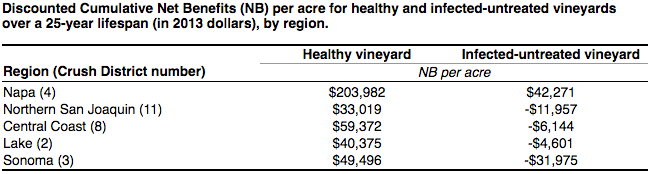
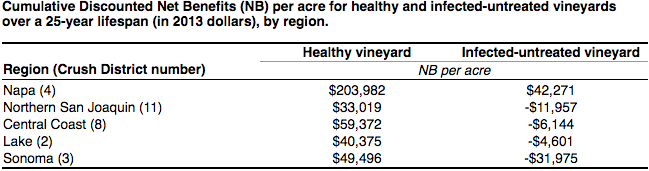
consistency text edits

diff --git a/index.html b/index.html
@@ -32,17 +32,15 @@
 <fieldset class="instructions">
 <h2 id="introduction">Introduction</h2>
 
-<p>Trunk (or wood-canker) diseases are widespread throughout California. These diseases significantly reduce annual yield in mature vineyards, limiting their profitable lifespan. Estimates suggest annual losses in California vineyards from Eutypa dieback, a widespread wood-canker disease, reduce annual gross producer value by as much as 14%. Yield losses accumulate each year, as there are no effective methods to eradicate the wood infections. Diseased vineyards must be replanted on a truncated cycle, and the high start-up costs are not repaid, or preventative practices can be adopted in young vineyards reducing the negative effects of trunk diseases. On this page we provide results from our economic analysis that demonstrate the effectiveness of three field-tested, preventative practices (delayed pruning, double pruning, and application of pruning wound protectant. This page also provides growers an opportunity to enter economic and yield data for their operation to see how trunk diseases and these preventative practices might affect production in their winegrape vineyard.</p>
+<p>Trunk (or wood-canker) diseases are widespread throughout California. These diseases significantly reduce annual yield in mature vineyards, limiting their profitable lifespan. Estimates suggest annual losses in California vineyards from Eutypa dieback, a widespread wood-canker disease, reduce annual gross producer value by as much as 14%. Yield losses accumulate each year, as there are no effective methods to eradicate the wood infections. Diseased vineyards must be replanted on a truncated cycle, and the high start-up costs are not repaid, or preventative practices can be adopted in young vineyards reducing the negative effects of trunk diseases. On this page we provide results from our economic analysis that demonstrate the effectiveness of three field-tested, preventative practices (delayed pruning, double pruning, and application of pruning wound protectant. </p>
 
 <h3 id="instructions">Instructions</h3>
 
-<p>In the following section of this page, you are prompted to select a winegrape growing region, figures of annually and cumulative net returns and yields, and tables containing annually average and cumulatively economic indicators taken from our economic analysis. You will also be prompted to select the preventative practices, disease control efficacy rates, and vineyard age when a preventative practice is first adopted. You will also find links to description of the preventative practices and disease control efficacy rates, and definitions of the variables displayed in the figures and tables. All figure and table displays list the underlying region-specific assumptions used in the economic analysis.</p>
+<p>In the following section of this page, you are prompted to select a winegrape growing region, figures of annual and cumulative net returns and yields, and tables containing annual average and cumulative indicators taken from our economic analysis. You will also be prompted to select the preventative practices, disease control efficacy rates, and vineyard age when a preventative practice is first adopted. You will also find links to description of the preventative practices and disease control efficacy rates, and definitions of the variables displayed in the figures and tables. All figure and table displays list the underlying region-specific assumptions used in the economic analysis.</p>
 
 <p>For inquiries about the page and economic analysis of trunk diseases in California winegrape vineyards, please contact <a href="&#109;&#97;&#105;&#108;&#x74;&#111;&#x3a;&#x6b;&#x61;&#112;&#x6c;&#x61;&#x6e;&#x6a;&#64;&#99;&#115;&#117;&#115;&#46;&#101;&#100;&#x75;">&#107;&#97;&#x70;&#x6c;&#x61;&#x6e;&#106;&#x40;&#x63;&#115;&#117;&#115;&#x2e;&#101;&#x64;&#x75;</a>. </p>
 
-<ul>
-<li><a href="http://treeandvinetrunkdiseases.org">SCRI Trunk Disease Project Page</a></li>
-</ul>
+<p><em>Partial support provided through a grant from the Specialty Crop Research Initiative (SCRI) USDA, National Institute of Food &amp; Agriculture.</em> <a href="http://treeandvinetrunkdiseases.org">Return to the SCRI Trunk Disease Project Page.</a> </p>
 </fieldset>
 
 <form id="theform">
@@ -90,26 +88,26 @@
 		<h4>Select (a) or (b).</h4>
 
 		<section class="efficacyfig-wrap">
-			<h4><label for="efficacyOrYearfig"><input type="radio" name="efficacyOrYearfig" value="efficacy" /> (a) Indicate anticipated efficacy:</label></h4>
+			<h4><label for="efficacyOrYearfig"><input type="radio" name="efficacyOrYearfig" value="efficacy" /> (a) Indicate anticipated disease control efficacy:</label></h4>
 			<ul>
 				<li>
 					<label><input type="checkbox" name="efficacyfig" value="25" />25%</label>
 					<label><input type="checkbox" name="efficacyfig" value="50" />50%</label>
 					<label><input type="checkbox" name="efficacyfig" value="75" />75%</label>
 				</li>
-				<li class="glossary-link"><a href="efficacy-information.html">Disease control efficacy definition and reference estimates</a></li>
+				<li class="glossary-link"><a href="efficacy-information.html">Disease control efficacy rate information</a></li>
 			</ul>
 		</section>
 
 		<section class="yearfig-wrap">
-		<h4><label for="efficacyOrYearfig"><input type="radio" name="efficacyOrYearfig" value="year" /> (b) Indicate first year of treatment:</label></h4>
+		<h4><label for="efficacyOrYearfig"><input type="radio" name="efficacyOrYearfig" value="year" /> (b) Indicate year of practice adoption:</label></h4>
 		<ul>
 			<li>
 				<label><input type="checkbox" name="yearfig" value="Year3" />Year 3</label>
 				<label><input type="checkbox" name="yearfig" value="Year5" />Year 5</label>
 				<label><input type="checkbox" name="yearfig" value="Year10" />Year 10</label>
 			</li>
-			<li class="glossary-link"><a href="#" class="glossary-inline-link">Age of adoption information</a><br /><span class="glossary-inline">We derive results when preventative practices are adopted in years 3, 5, or 10 to evaluate conditions when vines are fully trained onto the trellis system and winter pruning begins (3 years old), when vines reach maturity (5 years old), and when trunk disease symptoms typically appear in vineyards (10 years old). These years were selected following grower interviews and discussions with viticulture farm advisor to reflect key stages in a vineyards lifespan.</span></li>
+			<li class="glossary-link"><a href="#" class="glossary-inline-link">Age of adoption information</a><br /><span class="glossary-inline">We derive results when preventative practices are adopted in years 3, 5, or 10 to evaluate conditions when vines are fully trained onto the trellis system and winter pruning begins (3 years old), when vines reach maturity (5 years old), and when trunk disease symptoms typically appear in vineyards (10 years old). These years were selected following grower interviews and discussions with viticulture farm advisors to reflect key stages in a vineyard&#8217;s lifespan.</span></li>
 		</ul>
 		</section>
 
@@ -132,13 +130,13 @@
 				<li class="glossary-link"><a href="practice-definitions.html">Practice definitions</a></li>
 			</ul>
 
-		<h4>Select anticipated efficacy (select multiple to compare):</h4>
+		<h4>Select anticipated disease control efficacy (select multiple to compare):</h4>
 			<ul>
 				<li>
 					<label><input type="checkbox" name="efficacytable" value="25" checked="checked" />25%</label>
 					<label><input type="checkbox" name="efficacytable" value="50" />50%</label>
 					<label><input type="checkbox" name="efficacytable" value="75" />75%</label>
-				<li class="glossary-link"><a href="efficacy-information.html">Disease control efficacy definition and reference estimates</a></li>
+				<li class="glossary-link"><a href="efficacy-information.html">Disease control efficacy rate information</a></li>
 			</ul>
 
 		<h4>Select year of practice adoption (select multiple to compare):</h4>
@@ -148,13 +146,13 @@
 					<label><input type="checkbox" name="adoptiontable" value="5" />Year 5</label>
 					<label><input type="checkbox" name="adoptiontable" value="10" />Year 10</label>
 				</li>
-				<li class="glossary-link"><a href="#" class="glossary-inline-link">Age of adoption information</a><br /><span class="glossary-inline">We derive results when preventative practices are adopted in years 3, 5, or 10 to evaluate conditions when vines are fully trained onto the trellis system and winter pruning begins (3 years old), when vines reach maturity (5 years old), and when trunk disease symptoms typically appear in vineyards (10 years old). These years were selected following grower interviews and discussions with viticulture farm advisor to reflect key stages in a vineyards lifespan.</span></li>
+				<li class="glossary-link"><a href="#" class="glossary-inline-link">Age of adoption information</a><br /><span class="glossary-inline">We derive results when preventative practices are adopted in years 3, 5, or 10 to evaluate conditions when vines are fully trained onto the trellis system and winter pruning begins (3 years old), when vines reach maturity (5 years old), and when trunk disease symptoms typically appear in vineyards (10 years old). These years were selected following grower interviews and discussions with viticulture farm advisors to reflect key stages in a vineyard&#8217;s lifespan.</span></li>
 			</ul>
 
 		<h4>Choose output parameters:</h4>
 			<ul>
 				<li>
-					<label><input type="checkbox" name="outputtable" value="adcnb" />Additional discounted cumulative net benefits (ADCNB)</label>
+					<label><input type="checkbox" name="outputtable" value="acdnb" />Additional cumulative discounted net benefits (ACDNB)</label>
 					<label><input type="checkbox" name="outputtable" value="lpy" />Last profitable year</label>
 					<label><input type="checkbox" name="outputtable" value="aapo" />Age adoption pays off</label>
 					<label><input type="checkbox" name="outputtable" value="bep" />Breakeven probability</label>
@@ -327,7 +325,7 @@ $(document).ready(function() {
 		------------------------------------ */
 
 			// Declare table data
-			var tableHeaders = ['Region', 'Practice', 'Efficacy', 'Year of adoption', 'ADCNB', 'Last profitable year', 'Age adoption pays off', 'Breakeven probability'];
+			var tableHeaders = ['Region', 'Practice', 'Efficacy', 'Year of adoption', 'ACDNB', 'Last profitable year', 'Age adoption pays off', 'Breakeven probability'];
 			var napaDP25y3 = ['Napa', 'Delayed Pruning', '25.0', '3.0', '$46,720', '18', '3.0', '0.0'];
 			var napaDP25y5 = ['Napa', 'Delayed Pruning', '25.0', '5.0', '$37,880', '17', '5.0', '0.0'];
 			var napaDP25y10 = ['Napa', 'Delayed Pruning', '25.0', '10.0', '$16,159', '16', '10.0', '0.0'];
@@ -546,7 +544,7 @@ $(document).ready(function() {
 				inputs[inputkeys[inputindex]] = false;
 			};
 			var outputkeys = [];
-			outputkeys = ['adcnb', 'lpy', 'aapo', 'bep'];
+			outputkeys = ['acdnb', 'lpy', 'aapo', 'bep'];
 			for (var outputindex in outputkeys) {
 				outputs[outputkeys[outputindex]] = false;
 			};

diff --git a/markdown/compiled/instructions.html b/markdown/compiled/instructions.html
@@ -1,13 +1,11 @@
 <h2 id="introduction">Introduction</h2>
 
-<p>Trunk (or wood-canker) diseases are widespread throughout California. These diseases significantly reduce annual yield in mature vineyards, limiting their profitable lifespan. Estimates suggest annual losses in California vineyards from Eutypa dieback, a widespread wood-canker disease, reduce annual gross producer value by as much as 14%. Yield losses accumulate each year, as there are no effective methods to eradicate the wood infections. Diseased vineyards must be replanted on a truncated cycle, and the high start-up costs are not repaid, or preventative practices can be adopted in young vineyards reducing the negative effects of trunk diseases. On this page we provide results from our economic analysis that demonstrate the effectiveness of three field-tested, preventative practices (delayed pruning, double pruning, and application of pruning wound protectant. This page also provides growers an opportunity to enter economic and yield data for their operation to see how trunk diseases and these preventative practices might affect production in their winegrape vineyard.</p>
+<p>Trunk (or wood-canker) diseases are widespread throughout California. These diseases significantly reduce annual yield in mature vineyards, limiting their profitable lifespan. Estimates suggest annual losses in California vineyards from Eutypa dieback, a widespread wood-canker disease, reduce annual gross producer value by as much as 14%. Yield losses accumulate each year, as there are no effective methods to eradicate the wood infections. Diseased vineyards must be replanted on a truncated cycle, and the high start-up costs are not repaid, or preventative practices can be adopted in young vineyards reducing the negative effects of trunk diseases. On this page we provide results from our economic analysis that demonstrate the effectiveness of three field-tested, preventative practices (delayed pruning, double pruning, and application of pruning wound protectant. </p>
 
 <h3 id="instructions">Instructions</h3>
 
-<p>In the following section of this page, you are prompted to select a winegrape growing region, figures of annually and cumulative net returns and yields, and tables containing annually average and cumulatively economic indicators taken from our economic analysis. You will also be prompted to select the preventative practices, disease control efficacy rates, and vineyard age when a preventative practice is first adopted. You will also find links to description of the preventative practices and disease control efficacy rates, and definitions of the variables displayed in the figures and tables. All figure and table displays list the underlying region-specific assumptions used in the economic analysis.</p>
+<p>In the following section of this page, you are prompted to select a winegrape growing region, figures of annual and cumulative net returns and yields, and tables containing annual average and cumulative indicators taken from our economic analysis. You will also be prompted to select the preventative practices, disease control efficacy rates, and vineyard age when a preventative practice is first adopted. You will also find links to description of the preventative practices and disease control efficacy rates, and definitions of the variables displayed in the figures and tables. All figure and table displays list the underlying region-specific assumptions used in the economic analysis.</p>
 
 <p>For inquiries about the page and economic analysis of trunk diseases in California winegrape vineyards, please contact <a href="&#109;&#97;&#105;&#108;&#x74;&#111;&#x3a;&#x6b;&#x61;&#112;&#x6c;&#x61;&#x6e;&#x6a;&#64;&#99;&#115;&#117;&#115;&#46;&#101;&#100;&#x75;">&#107;&#97;&#x70;&#x6c;&#x61;&#x6e;&#106;&#x40;&#x63;&#115;&#117;&#115;&#x2e;&#101;&#x64;&#x75;</a>. </p>
 
-<ul>
-<li><a href="http://treeandvinetrunkdiseases.org">SCRI Trunk Disease Project Page</a></li>
-</ul>
+<p><em>Partial support provided through a grant from the Specialty Crop Research Initiative (SCRI) USDA, National Institute of Food &amp; Agriculture.</em> <a href="http://treeandvinetrunkdiseases.org">Return to the SCRI Trunk Disease Project Page.</a> </p>

diff --git a/variable-definitions.html b/variable-definitions.html
@@ -37,7 +37,7 @@
 
 <h2 id="tablevariables">Table variables</h2>
 
-<p><strong>Additional discounted cumulative net benefits (ADCNB):</strong> The difference in cumulative net returns (returns - costs) per acre over 25 years between an infected vineyards where action is taken healthy vineyard and an untreated infected vineyard. Current and future dollar amounts are in 2013 dollars and are discounted to 2013 using a 3% discount rate. </p>
+<p><strong>Additional cumulative discounted net benefits (ACDNB):</strong> The difference in cumulative net returns (returns - costs) per acre over 25 years between an infected vineyard where action is taken and an untreated infected vineyard. Current and future dollar amounts are in 2013 dollars and are discounted to 2013 using a 3% discount rate. </p>
 
 <p>As a reference point, here are the discounted cumulative net benefits for a healthy and an untreated infected vineyard. </p>
 
@@ -96,7 +96,7 @@
 
 <p><strong>Last profitable year:</strong> The last year an infected vineyard generates positive annual net returns (returns - costs). This year is the same for discounted and nominal net returns. </p>
 
-<p>As a reference point, here are the last year an untreated infected vineyard generates positive annual net returns. </p>
+<p>As a reference point, here are the last years an untreated infected vineyard generates positive annual net returns. </p>
 
 <table>
 <colgroup>
@@ -140,11 +140,11 @@
 
 <p><a href="images/variable-table02.png" class="swipebox hide-for-phones"><i class="fa fa-search-plus" aria-hidden="true"></i> View fullscreen</a> </p>
 
-<p><strong>Age adoption pays off:</strong> The age when discounted cumulative net returns (returns – costs) for a treated infected vineyard exceed those from an untreated infected vineyard. </p>
+<p><strong>Age adoption pays off:</strong> The age when cumulative discounted net returns (returns – costs) for a treated infected vineyard exceed those from an untreated infected vineyard. </p>
 
-<p><strong>Breakeven probability:</strong> The probability of infection where expected discounted cumulative net returns from treating a vineyard equals the expected discounted cumulative net returns from not treating a vineyard. If you perceive a probability of infection less than this probability, then not treating the vineyard generates greater discounted cumulative net returns than a treated vineyard, and vice versa. </p>
+<p><strong>Breakeven probability:</strong> The probability of infection where expected cumulative discounted net returns from treating a vineyard equals the expected cumulative discounted net returns from not treating a vineyard. If you perceive a probability of infection less than this probability, then not treating the vineyard generates greater cumulative discounted net returns than a treated vineyard, and vice versa. </p>
 
-<p>As a reference point here are the discounted cumulative net returns for a treated healthy vineyard. </p>
+<p>As a reference point here are the cumulative discounted net returns for a treated healthy vineyard. </p>
 
 <table>
 <colgroup>

diff --git a/markdown/compiled/variable-definitions.html b/markdown/compiled/variable-definitions.html
@@ -8,7 +8,7 @@
 
 <h2 id="tablevariables">Table variables</h2>
 
-<p><strong>Additional discounted cumulative net benefits (ADCNB):</strong> The difference in cumulative net returns (returns - costs) per acre over 25 years between an infected vineyards where action is taken healthy vineyard and an untreated infected vineyard. Current and future dollar amounts are in 2013 dollars and are discounted to 2013 using a 3% discount rate. </p>
+<p><strong>Additional cumulative discounted net benefits (ACDNB):</strong> The difference in cumulative net returns (returns - costs) per acre over 25 years between an infected vineyard where action is taken and an untreated infected vineyard. Current and future dollar amounts are in 2013 dollars and are discounted to 2013 using a 3% discount rate. </p>
 
 <p>As a reference point, here are the discounted cumulative net benefits for a healthy and an untreated infected vineyard. </p>
 
@@ -67,7 +67,7 @@
 
 <p><strong>Last profitable year:</strong> The last year an infected vineyard generates positive annual net returns (returns - costs). This year is the same for discounted and nominal net returns. </p>
 
-<p>As a reference point, here are the last year an untreated infected vineyard generates positive annual net returns. </p>
+<p>As a reference point, here are the last years an untreated infected vineyard generates positive annual net returns. </p>
 
 <table>
 <colgroup>
@@ -111,11 +111,11 @@
 
 <p><a href="images/variable-table02.png" class="swipebox hide-for-phones"><i class="fa fa-search-plus" aria-hidden="true"></i> View fullscreen</a> </p>
 
-<p><strong>Age adoption pays off:</strong> The age when discounted cumulative net returns (returns – costs) for a treated infected vineyard exceed those from an untreated infected vineyard. </p>
+<p><strong>Age adoption pays off:</strong> The age when cumulative discounted net returns (returns – costs) for a treated infected vineyard exceed those from an untreated infected vineyard. </p>
 
-<p><strong>Breakeven probability:</strong> The probability of infection where expected discounted cumulative net returns from treating a vineyard equals the expected discounted cumulative net returns from not treating a vineyard. If you perceive a probability of infection less than this probability, then not treating the vineyard generates greater discounted cumulative net returns than a treated vineyard, and vice versa. </p>
+<p><strong>Breakeven probability:</strong> The probability of infection where expected cumulative discounted net returns from treating a vineyard equals the expected cumulative discounted net returns from not treating a vineyard. If you perceive a probability of infection less than this probability, then not treating the vineyard generates greater cumulative discounted net returns than a treated vineyard, and vice versa. </p>
 
-<p>As a reference point here are the discounted cumulative net returns for a treated healthy vineyard. </p>
+<p>As a reference point here are the cumulative discounted net returns for a treated healthy vineyard. </p>
 
 <table>
 <colgroup>

diff --git a/practice-definitions.html b/practice-definitions.html
@@ -28,9 +28,9 @@
 
 <p><strong>Delayed pruning:</strong> Prune late in the dormant season (February or later, before budbreak) by hand, when both pathogen inoculum and wound susceptibility are lower, hence minimizing the risk of infection compared to December and January. </p>
 
-<p><strong>Hand-painted TopsinM:</strong> Prune early in the dormant season (December or January) with a mechanical-pruning machine; partially prune canes to a length of approx. 0.4 m. Prune again late in the dormant season (February or later) by hand to two-bud spurs, to remove potentially infected canes. </p>
+<p><strong>Hand-painted TopsinM:</strong> Topsin is a fungicide that provides a protective barrier on pruning wounds against infection by the spores of trunk pathogens. After pruning and before rain, the latter of which induces spore production, liberation and dispersal, apply Topsin by hand with a paintbrush or sponge to cover pruning wounds.<sup>1</sup> </p>
 
-<p><strong>Double pruning:</strong> Topsin is a fungicide that provides a protective barrier on pruning wounds against infection by the spores of trunk pathogens. After pruning and before rain, the latter of which induces spore production, liberation and dispersal, apply Topsin by hand with a paintbrush or sponge to cover pruning wounds.<sup>1</sup></p>
+<p><strong>Double pruning:</strong> Prune early in the dormant season (December or January) with a mechanical-pruning machine; partially prune canes to a length of approx. 0.4 m. Prune again late in the dormant season (February or later) by hand to two-bud spurs, to remove potentially infected canes. </p>
 
 <hr />
 

diff --git a/markdown/compiled/practice-definitions.html b/markdown/compiled/practice-definitions.html
@@ -2,9 +2,9 @@
 
 <p><strong>Delayed pruning:</strong> Prune late in the dormant season (February or later, before budbreak) by hand, when both pathogen inoculum and wound susceptibility are lower, hence minimizing the risk of infection compared to December and January. </p>
 
-<p><strong>Hand-painted TopsinM:</strong> Prune early in the dormant season (December or January) with a mechanical-pruning machine; partially prune canes to a length of approx. 0.4 m. Prune again late in the dormant season (February or later) by hand to two-bud spurs, to remove potentially infected canes. </p>
+<p><strong>Hand-painted TopsinM:</strong> Topsin is a fungicide that provides a protective barrier on pruning wounds against infection by the spores of trunk pathogens. After pruning and before rain, the latter of which induces spore production, liberation and dispersal, apply Topsin by hand with a paintbrush or sponge to cover pruning wounds.<sup>1</sup> </p>
 
-<p><strong>Double pruning:</strong> Topsin is a fungicide that provides a protective barrier on pruning wounds against infection by the spores of trunk pathogens. After pruning and before rain, the latter of which induces spore production, liberation and dispersal, apply Topsin by hand with a paintbrush or sponge to cover pruning wounds.<sup>1</sup></p>
+<p><strong>Double pruning:</strong> Prune early in the dormant season (December or January) with a mechanical-pruning machine; partially prune canes to a length of approx. 0.4 m. Prune again late in the dormant season (February or later) by hand to two-bud spurs, to remove potentially infected canes. </p>
 
 <hr />
 

diff --git a/markdown/instructions.md b/markdown/instructions.md
@@ -1,11 +1,11 @@
 ## Introduction
 
-Trunk (or wood-canker) diseases are widespread throughout California. These diseases significantly reduce annual yield in mature vineyards, limiting their profitable lifespan. Estimates suggest annual losses in California vineyards from Eutypa dieback, a widespread wood-canker disease, reduce annual gross producer value by as much as 14%. Yield losses accumulate each year, as there are no effective methods to eradicate the wood infections. Diseased vineyards must be replanted on a truncated cycle, and the high start-up costs are not repaid, or preventative practices can be adopted in young vineyards reducing the negative effects of trunk diseases. On this page we provide results from our economic analysis that demonstrate the effectiveness of three field-tested, preventative practices (delayed pruning, double pruning, and application of pruning wound protectant. This page also provides growers an opportunity to enter economic and yield data for their operation to see how trunk diseases and these preventative practices might affect production in their winegrape vineyard.
+Trunk (or wood-canker) diseases are widespread throughout California. These diseases significantly reduce annual yield in mature vineyards, limiting their profitable lifespan. Estimates suggest annual losses in California vineyards from Eutypa dieback, a widespread wood-canker disease, reduce annual gross producer value by as much as 14%. Yield losses accumulate each year, as there are no effective methods to eradicate the wood infections. Diseased vineyards must be replanted on a truncated cycle, and the high start-up costs are not repaid, or preventative practices can be adopted in young vineyards reducing the negative effects of trunk diseases. On this page we provide results from our economic analysis that demonstrate the effectiveness of three field-tested, preventative practices (delayed pruning, double pruning, and application of pruning wound protectant.  
 
 ### Instructions
 
-In the following section of this page, you are prompted to select a winegrape growing region, figures of annually and cumulative net returns and yields, and tables containing annually average and cumulatively economic indicators taken from our economic analysis. You will also be prompted to select the preventative practices, disease control efficacy rates, and vineyard age when a preventative practice is first adopted. You will also find links to description of the preventative practices and disease control efficacy rates, and definitions of the variables displayed in the figures and tables. All figure and table displays list the underlying region-specific assumptions used in the economic analysis.
+In the following section of this page, you are prompted to select a winegrape growing region, figures of annual and cumulative net returns and yields, and tables containing annual average and cumulative indicators taken from our economic analysis. You will also be prompted to select the preventative practices, disease control efficacy rates, and vineyard age when a preventative practice is first adopted. You will also find links to description of the preventative practices and disease control efficacy rates, and definitions of the variables displayed in the figures and tables. All figure and table displays list the underlying region-specific assumptions used in the economic analysis.
 
 For inquiries about the page and economic analysis of trunk diseases in California winegrape vineyards, please contact [kaplanj@csus.edu](mailto:kaplanj@csus.edu).  
 
-* [SCRI Trunk Disease Project Page](http://treeandvinetrunkdiseases.org)  
+*Partial support provided through a grant from the Specialty Crop Research Initiative (SCRI) USDA, National Institute of Food & Agriculture.*  [Return to the SCRI Trunk Disease Project Page.](http://treeandvinetrunkdiseases.org)  

diff --git a/markdown/variable-definitions.md b/markdown/variable-definitions.md
@@ -7,7 +7,7 @@
 <a id="tablevars"></a>
 ##Table variables
 
-**Additional discounted cumulative net benefits (ADCNB):** The difference in cumulative net returns (returns - costs) per acre over 25 years between an infected vineyards where action is taken healthy vineyard and an untreated infected vineyard. Current and future dollar amounts are in 2013 dollars and are discounted to 2013 using a 3% discount rate.  
+**Additional cumulative discounted net benefits (ACDNB):** The difference in cumulative net returns (returns - costs) per acre over 25 years between an infected vineyard where action is taken and an untreated infected vineyard. Current and future dollar amounts are in 2013 dollars and are discounted to 2013 using a 3% discount rate.  
 
 As a reference point, here are the discounted cumulative net benefits for a healthy and an untreated infected vineyard. 
 
@@ -25,7 +25,7 @@ Sonoma (3)                         |$49,496               | -$31,975            
 
 **Last profitable year:** The last year an infected vineyard generates positive annual net returns (returns - costs). This year is the same for discounted and nominal net returns.  
 
-As a reference point, here are the last year an untreated infected vineyard generates positive annual net returns. 
+As a reference point, here are the last years an untreated infected vineyard generates positive annual net returns. 
 
 | **Region (Crush District number)** | **Age** |
   :--------------------------------- |   :-:   |
@@ -38,11 +38,11 @@ As a reference point, here are the last year an untreated infected vineyard gene
 
 <a href="images/variable-table02.png" class="swipebox hide-for-phones"><i class="fa fa-search-plus" aria-hidden="true"></i> View fullscreen</a>  
 
-**Age adoption pays off:** The age when discounted cumulative net returns (returns – costs) for a treated infected vineyard exceed those from an untreated infected vineyard.  
+**Age adoption pays off:** The age when cumulative discounted net returns (returns – costs) for a treated infected vineyard exceed those from an untreated infected vineyard.  
 
-**Breakeven probability:**  The probability of infection where expected discounted cumulative net returns from treating a vineyard equals the expected discounted cumulative net returns from not treating a vineyard. If you perceive a probability of infection less than this probability, then not treating the vineyard generates greater discounted cumulative net returns than a treated vineyard, and vice versa.  
+**Breakeven probability:**  The probability of infection where expected cumulative discounted net returns from treating a vineyard equals the expected cumulative discounted net returns from not treating a vineyard. If you perceive a probability of infection less than this probability, then not treating the vineyard generates greater cumulative discounted net returns than a treated vineyard, and vice versa.  
 
-As a reference point here are the discounted cumulative net returns for a treated healthy vineyard.  
+As a reference point here are the cumulative discounted net returns for a treated healthy vineyard.  
 
 |                                                 | Year 3   | Year 5   | Year 10  |
  ------------------------------------------------ | :------: | :------: | :------: |

diff --git a/markdown/practice-definitions.md b/markdown/practice-definitions.md
@@ -2,9 +2,9 @@
 
 **Delayed pruning:** Prune late in the dormant season (February or later, before budbreak) by hand, when both pathogen inoculum and wound susceptibility are lower, hence minimizing the risk of infection compared to December and January. 
 
-**Hand-painted TopsinM:** Prune early in the dormant season (December or January) with a mechanical-pruning machine; partially prune canes to a length of approx. 0.4 m. Prune again late in the dormant season (February or later) by hand to two-bud spurs, to remove potentially infected canes. 
+**Hand-painted TopsinM:** Topsin is a fungicide that provides a protective barrier on pruning wounds against infection by the spores of trunk pathogens. After pruning and before rain, the latter of which induces spore production, liberation and dispersal, apply Topsin by hand with a paintbrush or sponge to cover pruning wounds.<sup>1</sup>  
 
-**Double pruning:** Topsin is a fungicide that provides a protective barrier on pruning wounds against infection by the spores of trunk pathogens. After pruning and before rain, the latter of which induces spore production, liberation and dispersal, apply Topsin by hand with a paintbrush or sponge to cover pruning wounds.<sup>1</sup>
+**Double pruning:** Prune early in the dormant season (December or January) with a mechanical-pruning machine; partially prune canes to a length of approx. 0.4 m. Prune again late in the dormant season (February or later) by hand to two-bud spurs, to remove potentially infected canes. 
 
 <hr />
 
